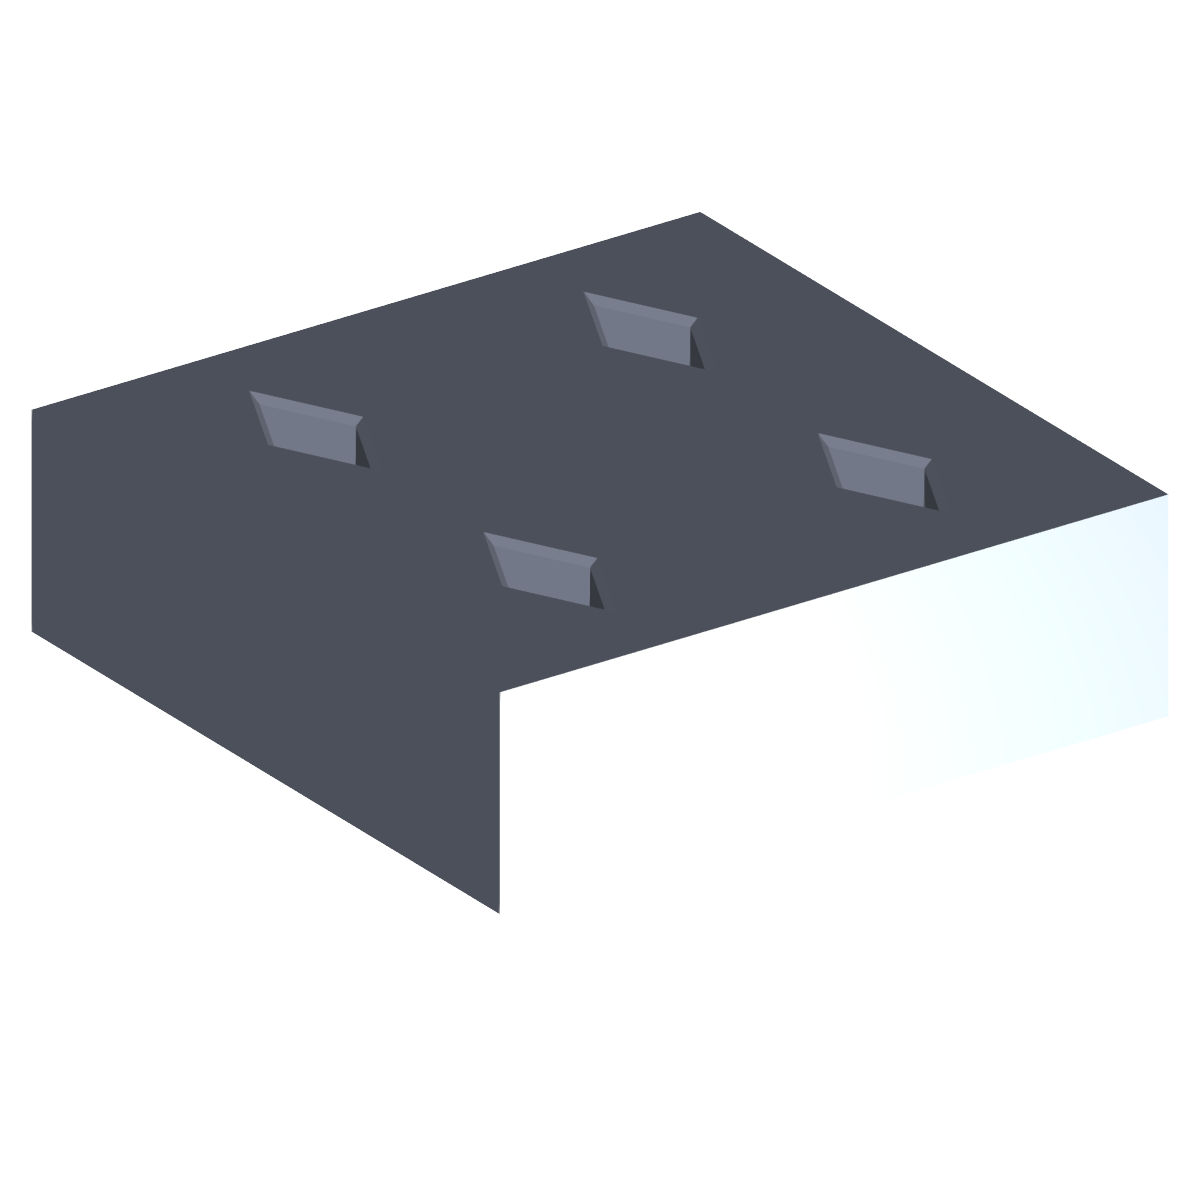
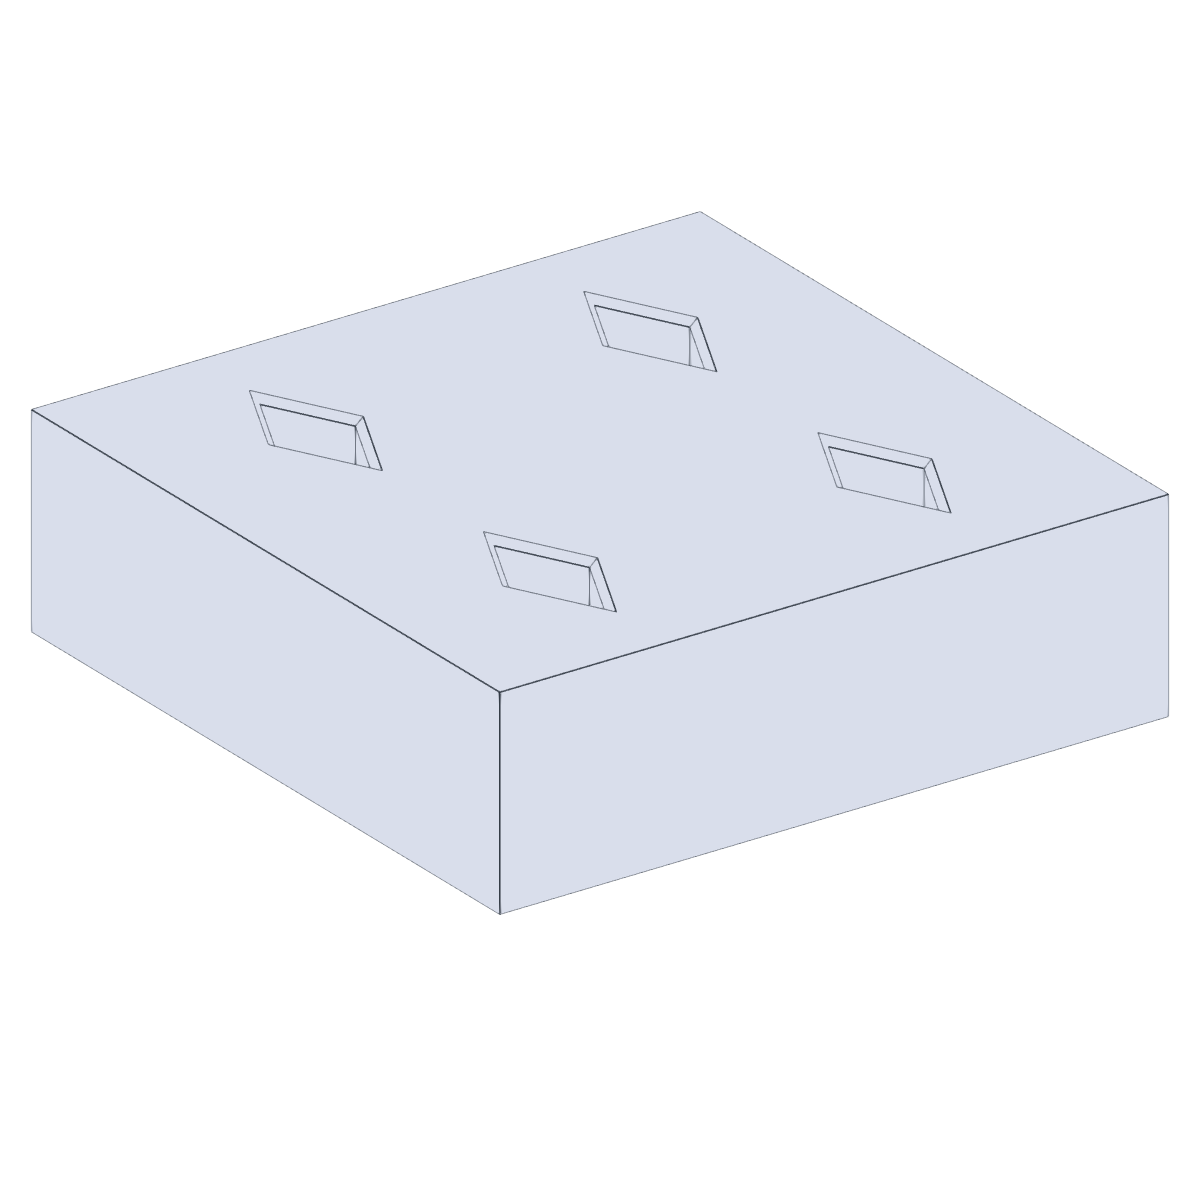
Flat-fill mount previews; rename calibration + ionic probe files
Drop Phong lighting from the STL renders — use a constant face color
plus feature-edge overlay, keeping FXAA anti-aliasing. Result reads
more like an engineering line drawing than a 3D render, which is
easier to scan in a folder of similar-looking mounts.

Also rename the remaining mount files to PascalCase to match folder
convention and drop the leftover "PAW-V2 -" / "_REV." / "Part 1"
cruft:
- calibration/{Base1,Base2,Base3,Block}.stl
- ionic_conductivity_probe_mount/IonicConductivityProbeMount.stl

asmi/force_sensor_mount_*.stl kept as-is (already clean, no versioning
to strip, internally consistent within that folder).

diff --git a/mounts/calibration/README.md b/mounts/calibration/README.md
@@ -8,10 +8,10 @@ system.
 
 | File | Purpose |
 | --- | --- |
-| `Opentrons Calibration Base 1 - Part 1.stl` | Calibration base, variant 1. |
-| `Opentrons Calibration Base 2 - Part 1.stl` | Calibration base, variant 2. |
-| `Opentrons Calibration Base 3 - Part 1.stl` | Calibration base, variant 3. |
-| `Opentrons Calibration Block - Part 1.stl` | Calibration block. |
+| `Base1.stl` | Calibration base, variant 1. |
+| `Base2.stl` | Calibration base, variant 2. |
+| `Base3.stl` | Calibration base, variant 3. |
+| `Block.stl` | Calibration block. |
 
 ## Previews
 

diff --git a/mounts/ionic_conductivity_probe_mount/README.md b/mounts/ionic_conductivity_probe_mount/README.md
@@ -9,4 +9,4 @@ Mount for an ionic conductivity probe. Bolts onto the
 
 | File | Purpose |
 | --- | --- |
-| `PAW-V2 - Ionic Conductivity Probe Mount_REV. 0 - Part 1.stl` | Printable probe holder (REV. 0). |
+| `IonicConductivityProbeMount.stl` | Printable probe holder. |
